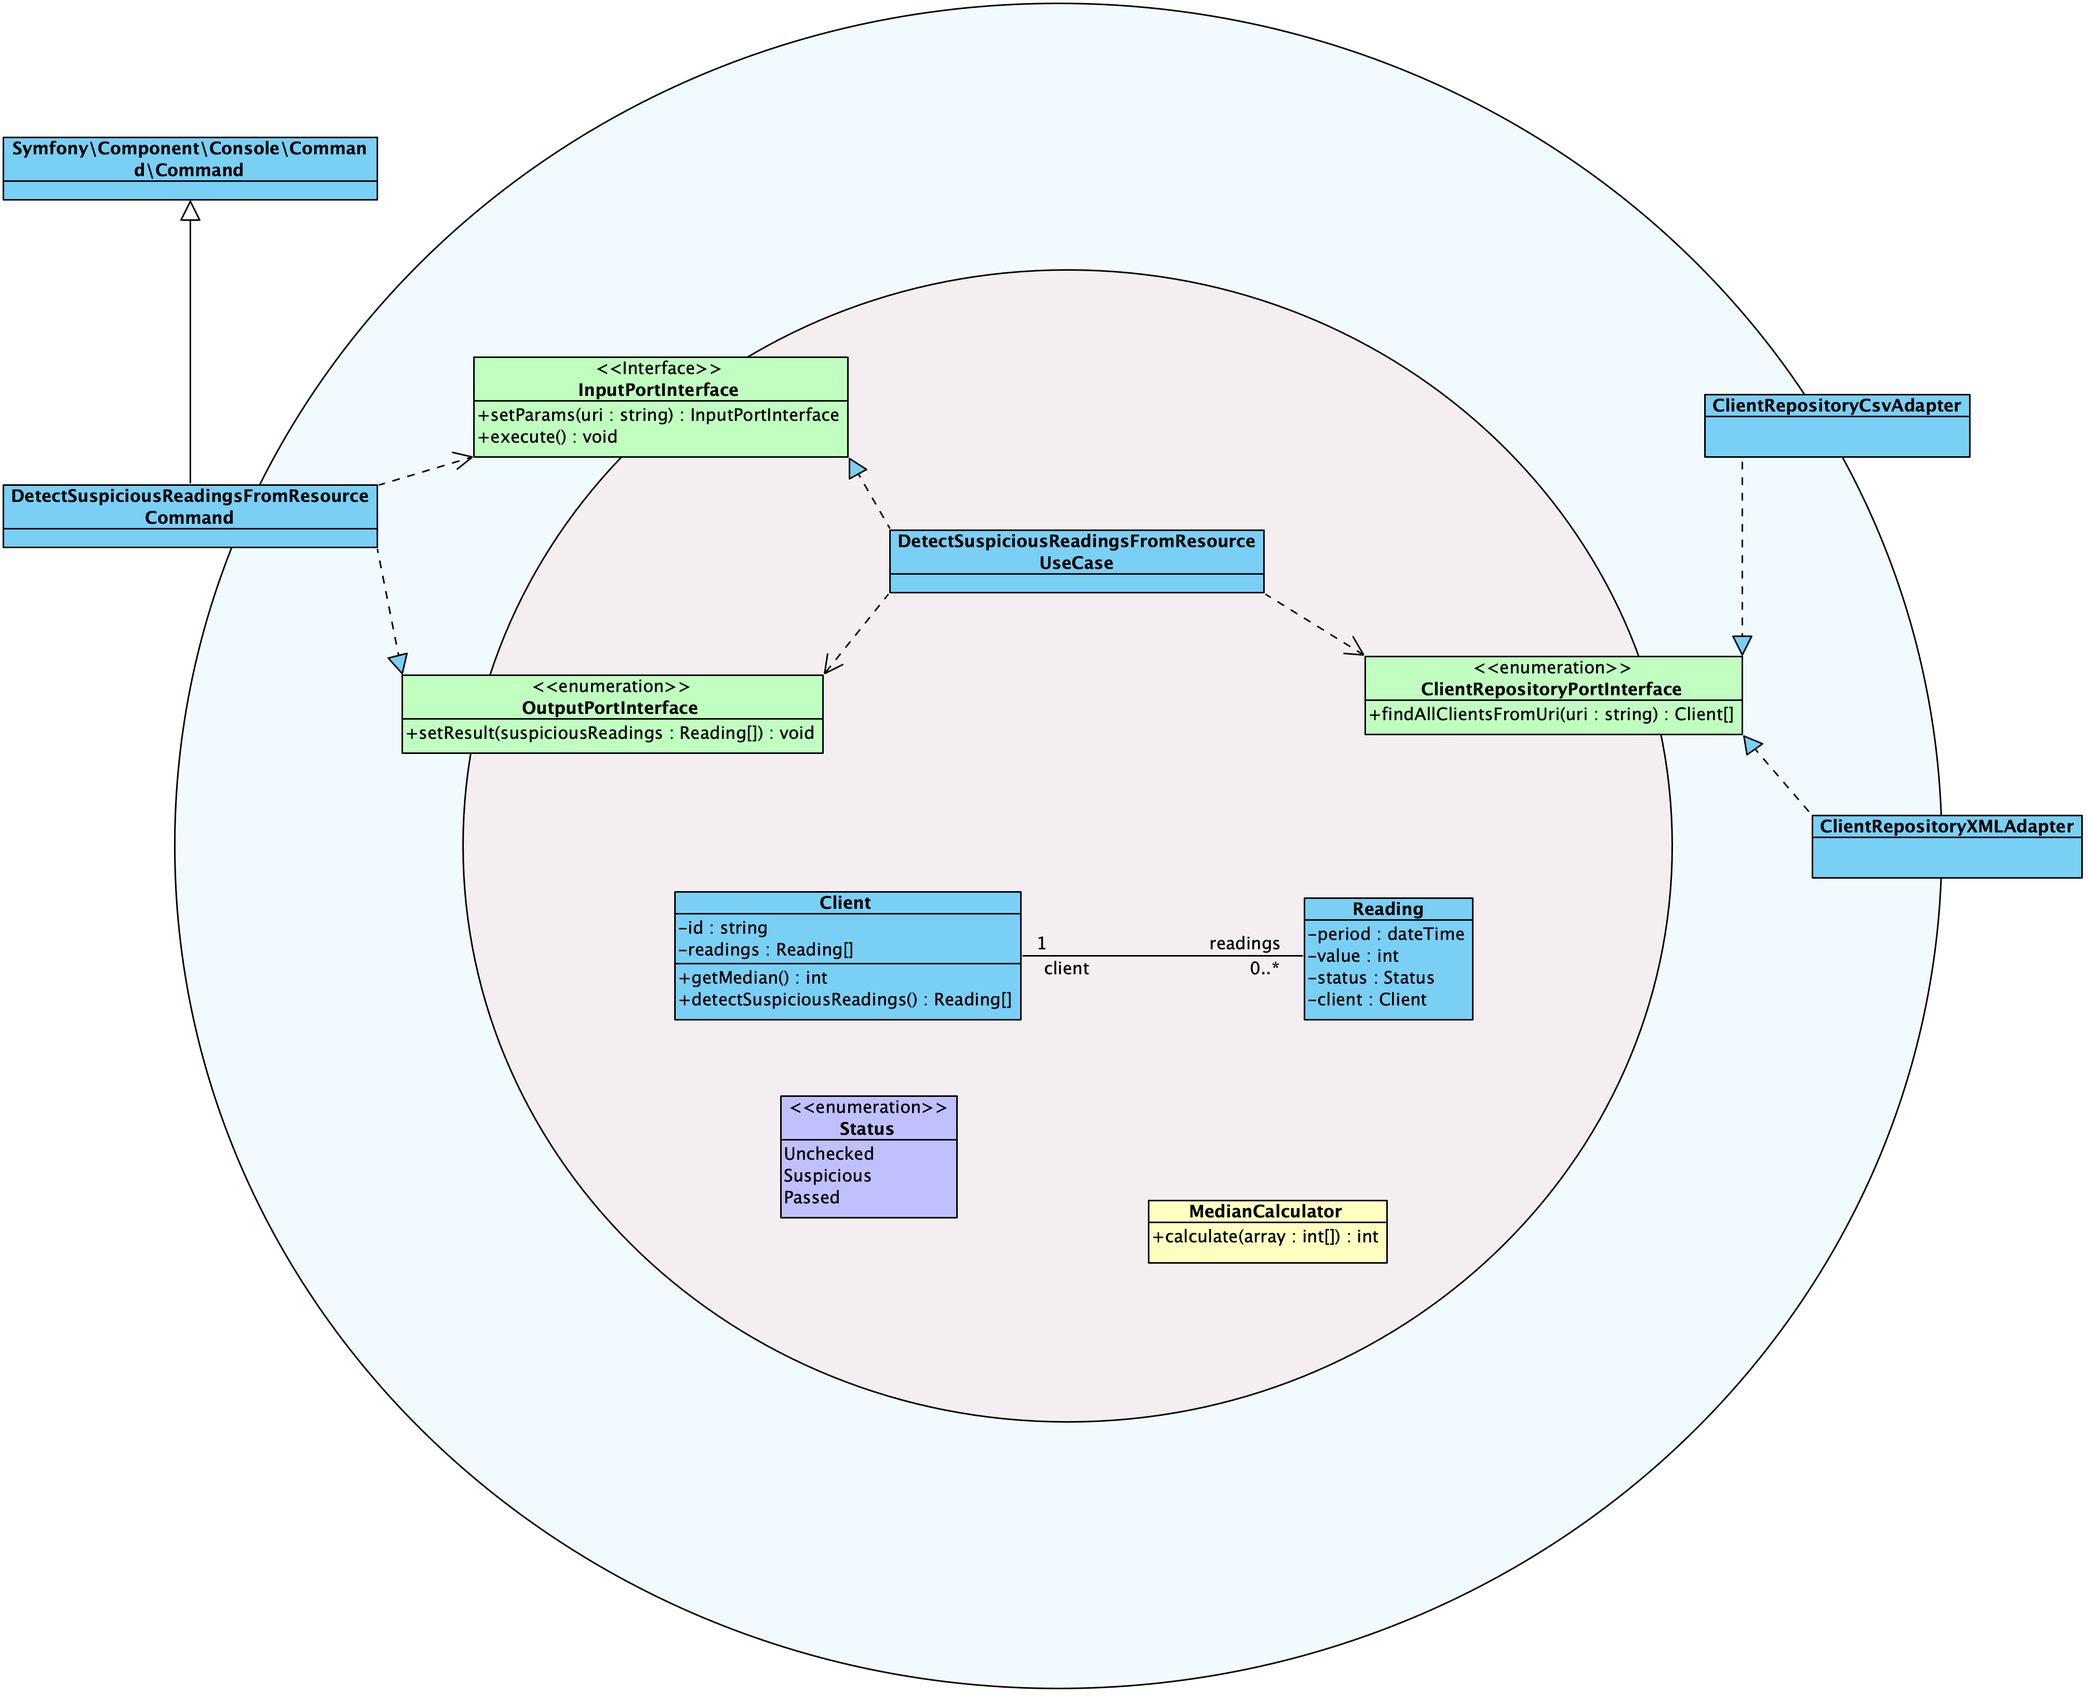
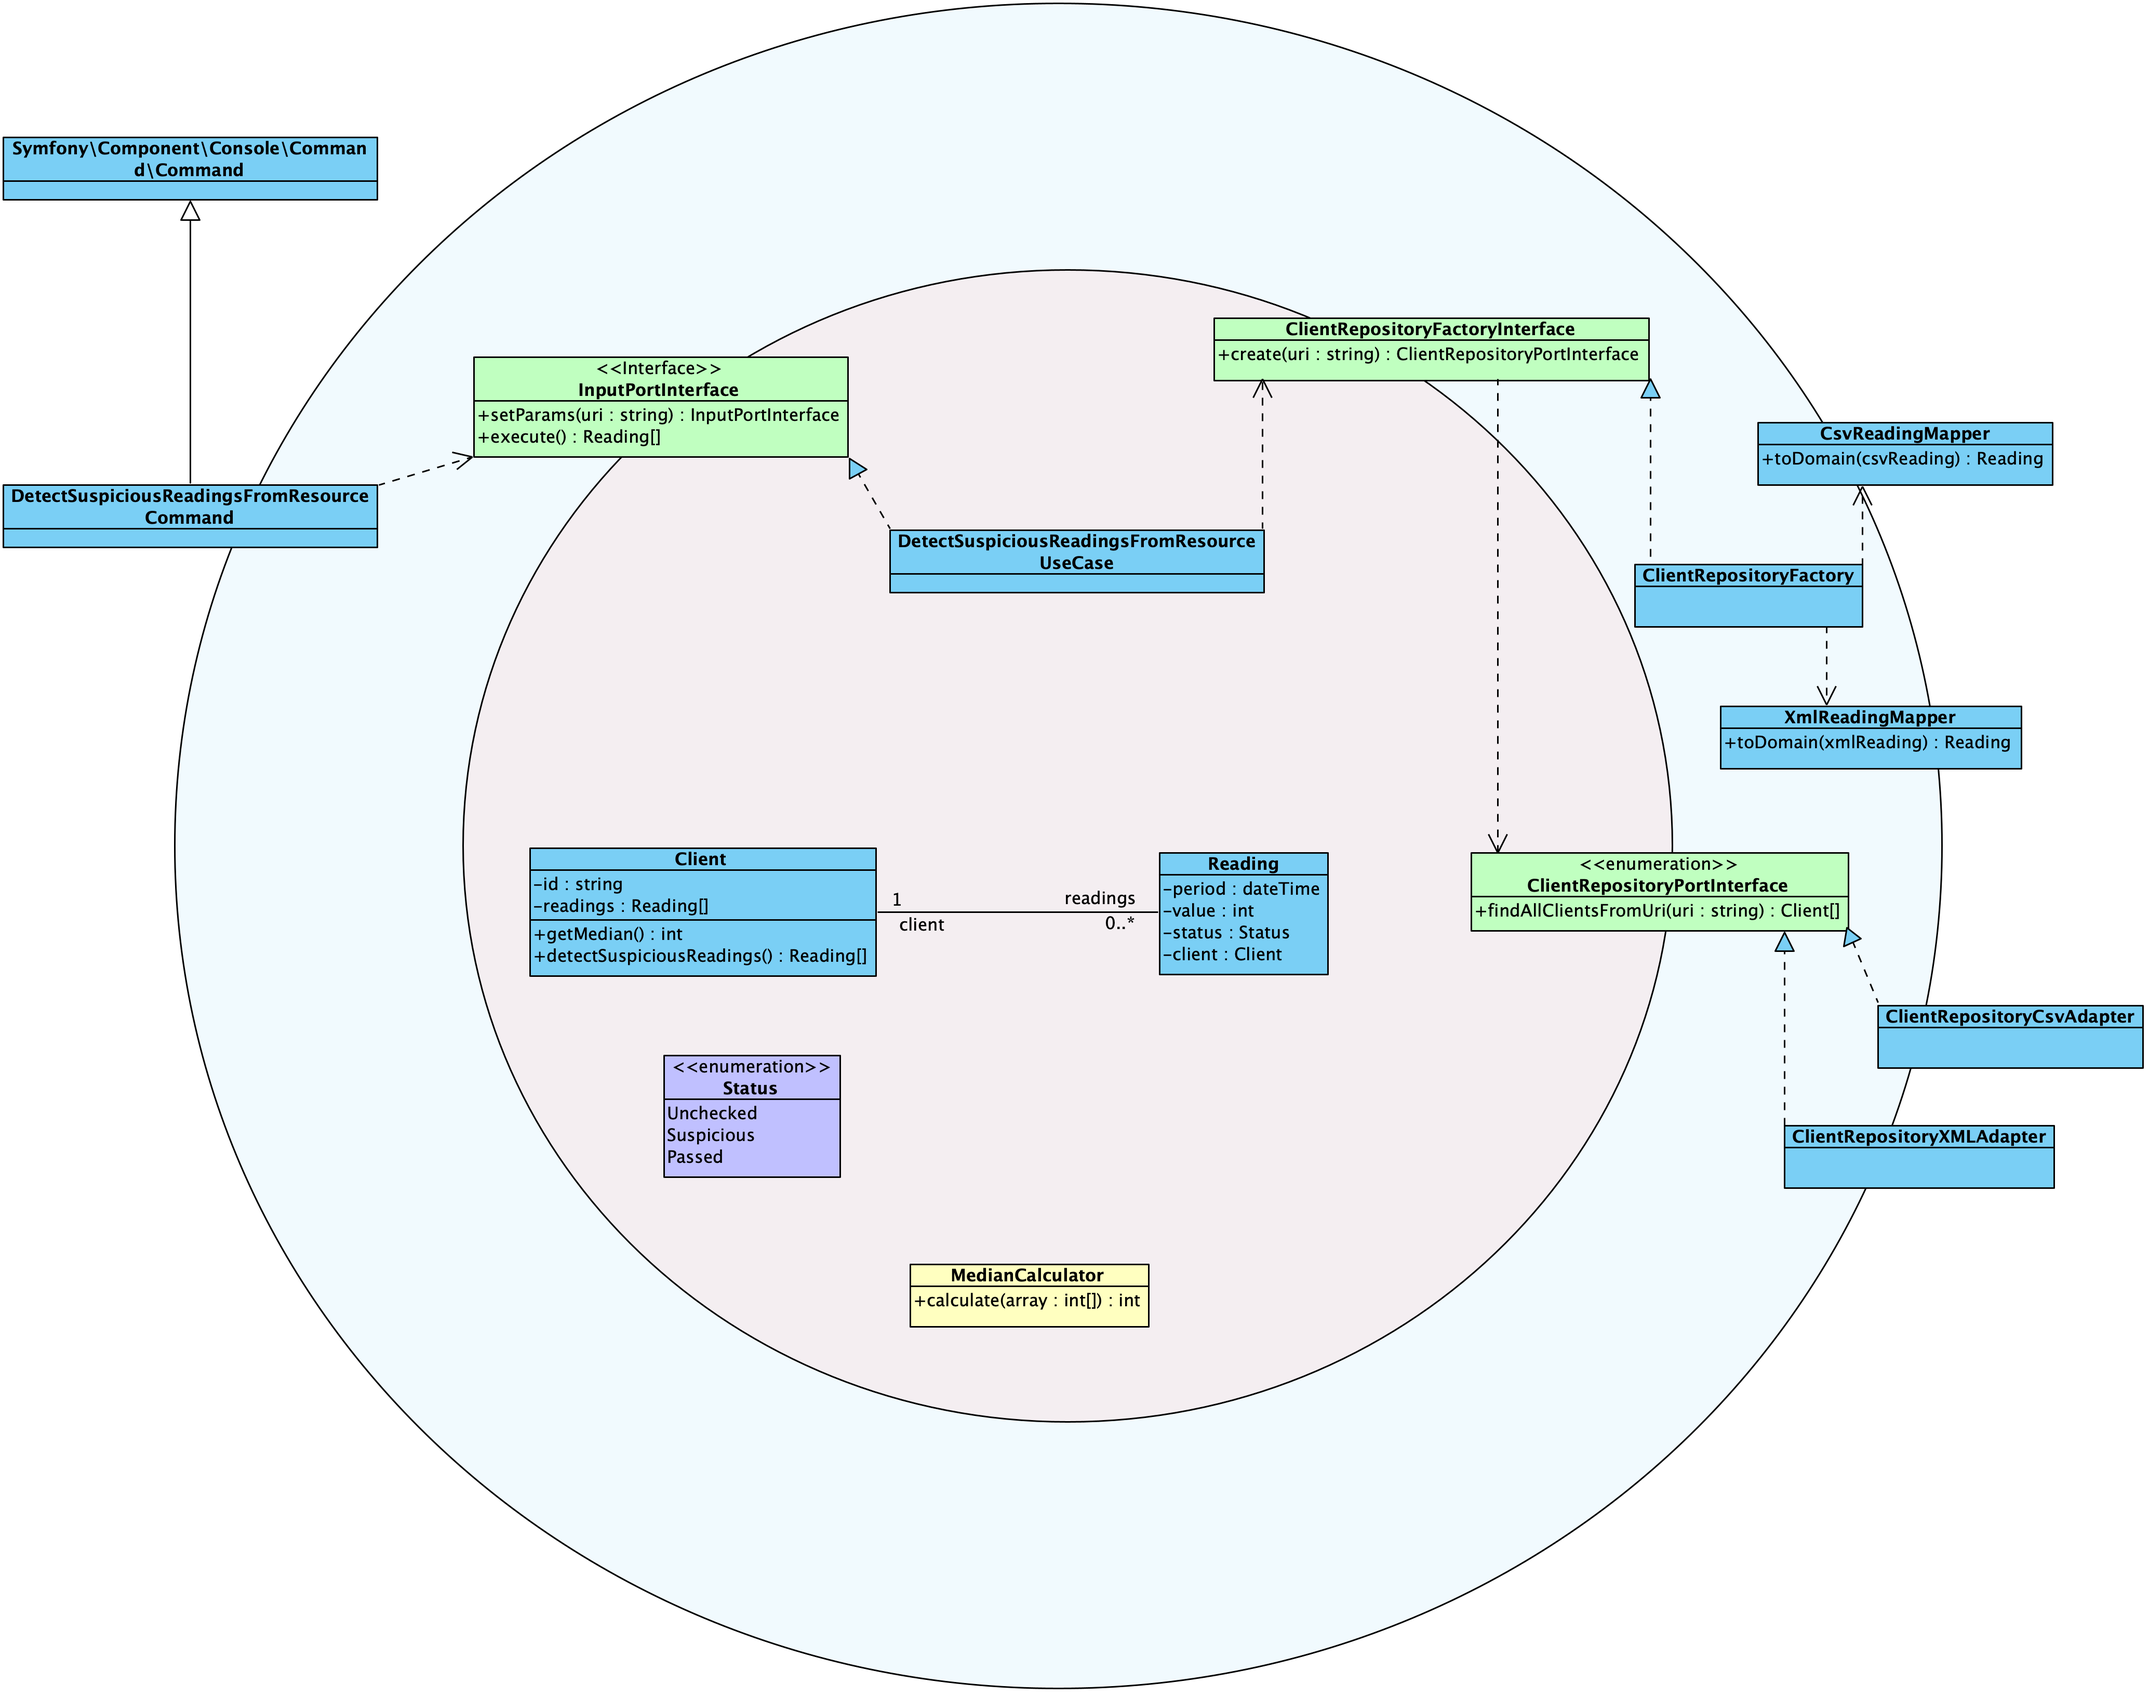
docs: Update README

diff --git a/README.md b/README.md
@@ -1,22 +1,75 @@
 # Suspicious Reading Detector
 
-This code is the WIP technical assessment solution for a backend position at Acme Electric Inc. This code is no longer maintained 
-or completed due to a lack of time. This README tries to explain the work that has been done. <ins>This implementation is 
-not functional</ins> for the following pending issues TO-DO:
-
-- Issue with de dependency injection (PHP-DI). Not fully configured, it needs more time to investigate.
-- Infrastructure layer in TO-DO state. This will implement the adapters of the ClientRepositoryInterface, one of them will implement the access and parse of csv files, and another of xml files.
+This code is the technical assessment solution for a backend position at Acme Electric Inc. This code is no longer maintained. 
+This README tries to explain the work that has been done.
 
 ## Run or test something
 
-This will give you a shell inside the container:
+This will give you a docker container up and running:
 ```
 docker compose up -d --build
 ```
-Execute the tests inside the running container:
 
+Execute the tests inside the running container:
 ```
 docker compose exec srd vendor/bin/phpunit
+```
+
+Execute the command inside the container detecting suspicious readings in CSV file:
+```
+docker compose exec srd src/Application.php app:detect-suspicious-readings data/2016-readings.csv
+```
+
+```
+Suspicious Reading Detector
+===========================
+
+Client | Month | Suspicious | Median
+583ef6329d7b9 | Sep | 3564 | 42997
+583ef6329d89b | Sep | 162078 | 38951
+583ef6329d89b | Oct | 7759 | 38951
+583ef6329d89b | Nov | 60952 | 38951
+583ef6329d916 | Jul | 40223 | 21798
+583ef6329d916 | Aug | 41512 | 21798
+583ef6329d916 | Sep | 2479 | 21798
+583ef6329d916 | Oct | 41334 | 21798
+583ef6329d916 | Nov | 42664 | 21798
+583ef6329d916 | Dec | 40179 | 21798
+583ef6329d954 | Jan | 43968 | 21668
+583ef6329d954 | Feb | 40389 | 21668
+583ef6329d954 | Mar | 42994 | 21668
+583ef6329d954 | Apr | 42569 | 21668
+
+=======================================
+Resource URI: data/2016-readings.csv
+Suspicious readings Total: 14
+```
+
+Execute the command inside the container detecting suspicious readings in XML file:
+```
+docker compose exec srd src/Application.php app:detect-suspicious-readings data/2016-readings.xml
+```
+
+```
+Suspicious Reading Detector
+===========================
+
+Client | Month | Suspicious | Median
+583ef6329e237 | Nov | 1379 | 21590
+583ef6329e271 | Oct | 121208 | 30807
+583ef6329e2e2 | Aug | 52394 | 31260
+583ef6329e2e2 | Sep | 55005 | 31260
+583ef6329e2e2 | Oct | 56055 | 31260
+583ef6329e2e2 | Nov | 55453 | 31260
+583ef6329e2e2 | Dec | 53315 | 31260
+583ef6329e3ab | Nov | 6440 | 27899
+583ef6329e3ab | Jan | 50902 | 27899
+583ef6329e3ab | Feb | 53606 | 27899
+583ef6329e3ab | Mar | 52789 | 27899
+
+=======================================
+Resource URI: data/2016-readings.xml
+Suspicious readings Total: 11
 ```
 
 ## Assessment Requirements
@@ -43,6 +96,7 @@ There are the following layers:
 
 - domain
 - application
+- infrastructure
 
 ![Diagram](doc/img/diagram.png "Diagram")
 
@@ -50,21 +104,26 @@ The idea was to implement the logic in the domain layer. The Client Entity/Model
 which detects the suspicious readings in himself. There are several port Interfaces to "interact" with the domain layer:
 
 1. *InputPortInterface* to setParams and launch the execution of the use case.
-2. *OutputPortInterface* to obtain the result of the execution.
-3. *ClientRepositoryInterface* to obtain data from the infrastructure layer
+2. *ClientRepositoryInterface* to obtain data from the infrastructure layer
+3. *ClientRepositoryFactoryInterface* to obtain an instance of ClientRepositoryInterface
 
-For the application layer the idea was to use the symfony/console component which implements the OuputPort and it has 
+For the application layer the idea was to use the symfony/console component which has 
 injected the inputPortInterface.
+
+The infrastructure layer implements two ClientRepositoryInterface, one of them to obtain data from CSV files and another 
+to obtain data from XML files. This layer also implements the factory ClientRepositoryFactoryInterface which knows the 
+repository implementations and provides the proper repository instance based on file extension (.csv or .xml) in the uri
+passed to the factory.
 
 ## About Docker
 
-This project uses a two stages Dockerfile, although it is not refined at all.
+This project uses a two stages Dockerfile.
 
 ## About Git
 
 Normally I use Gitflow as strategy, Conventional commit messages and atomic commits. You can check another projects in 
-my public GitHub profiles if you are looking for examples. Due to the lack of time this is going to be committed as an 
-only commit.
+my public GitHub profiles if you are looking for examples. ~~Due to the lack of time this is going to be committed as an 
+only commit.~~ Additional commits has been made to have a functional project.
 
 ## About tests
 
